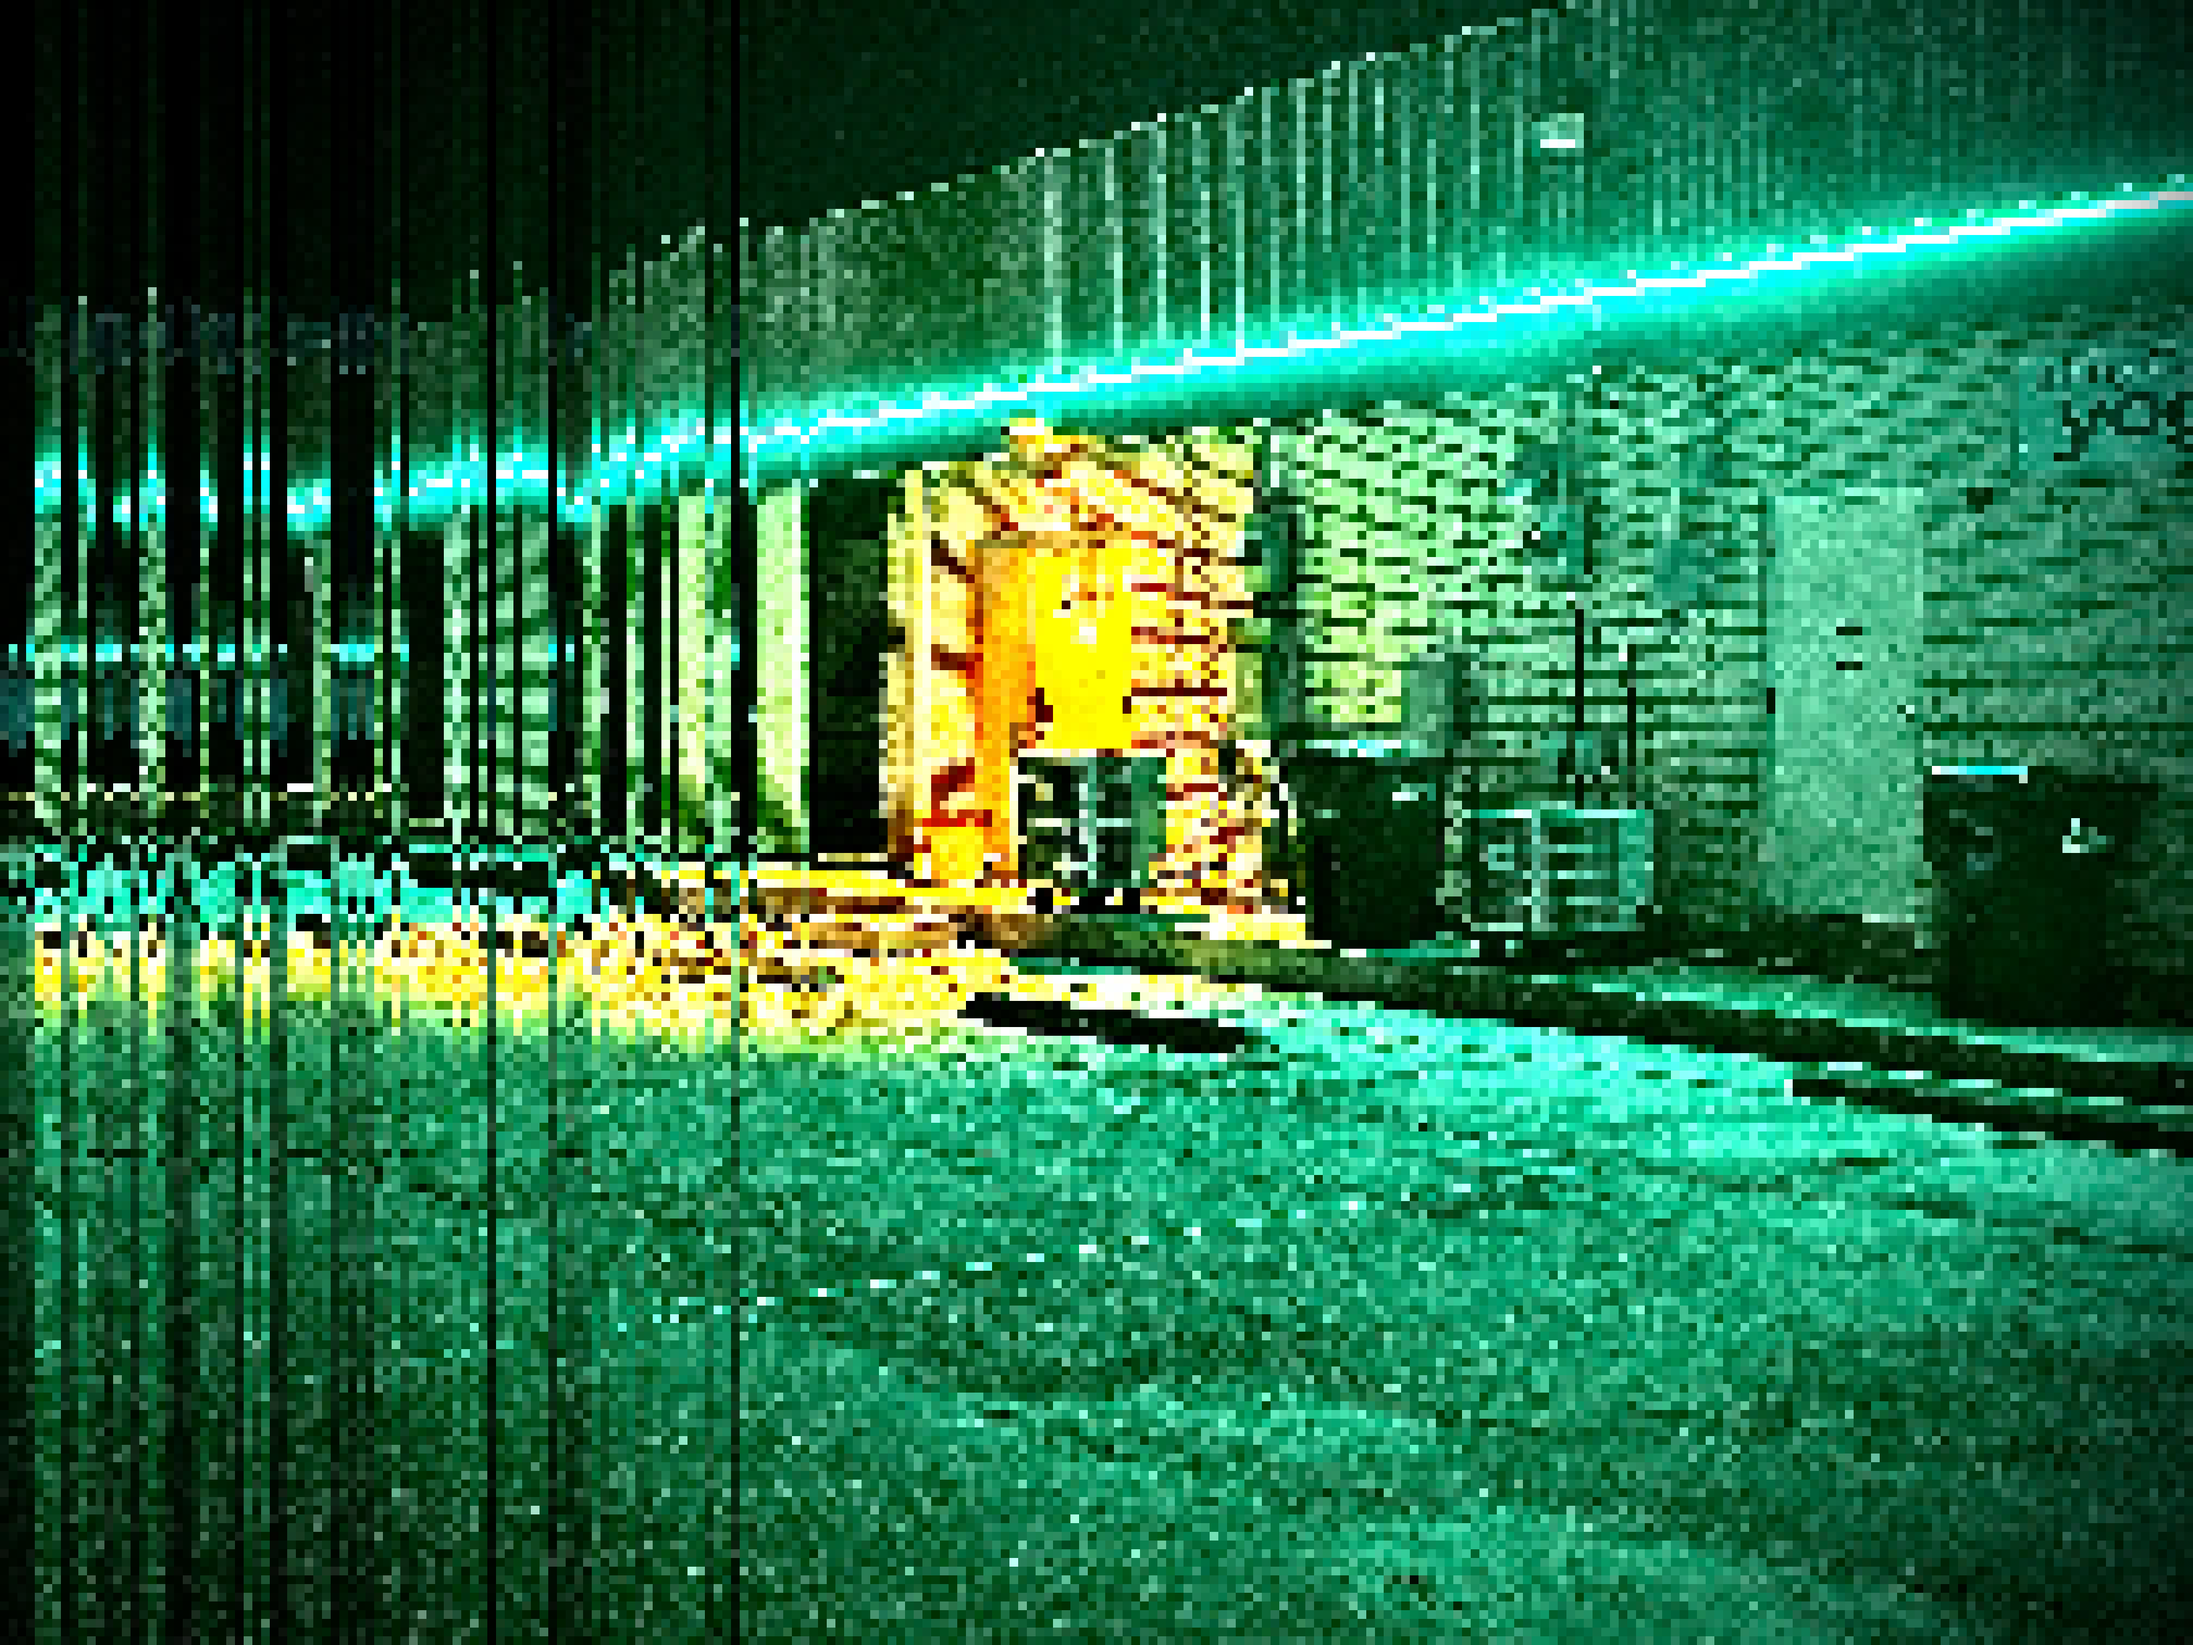
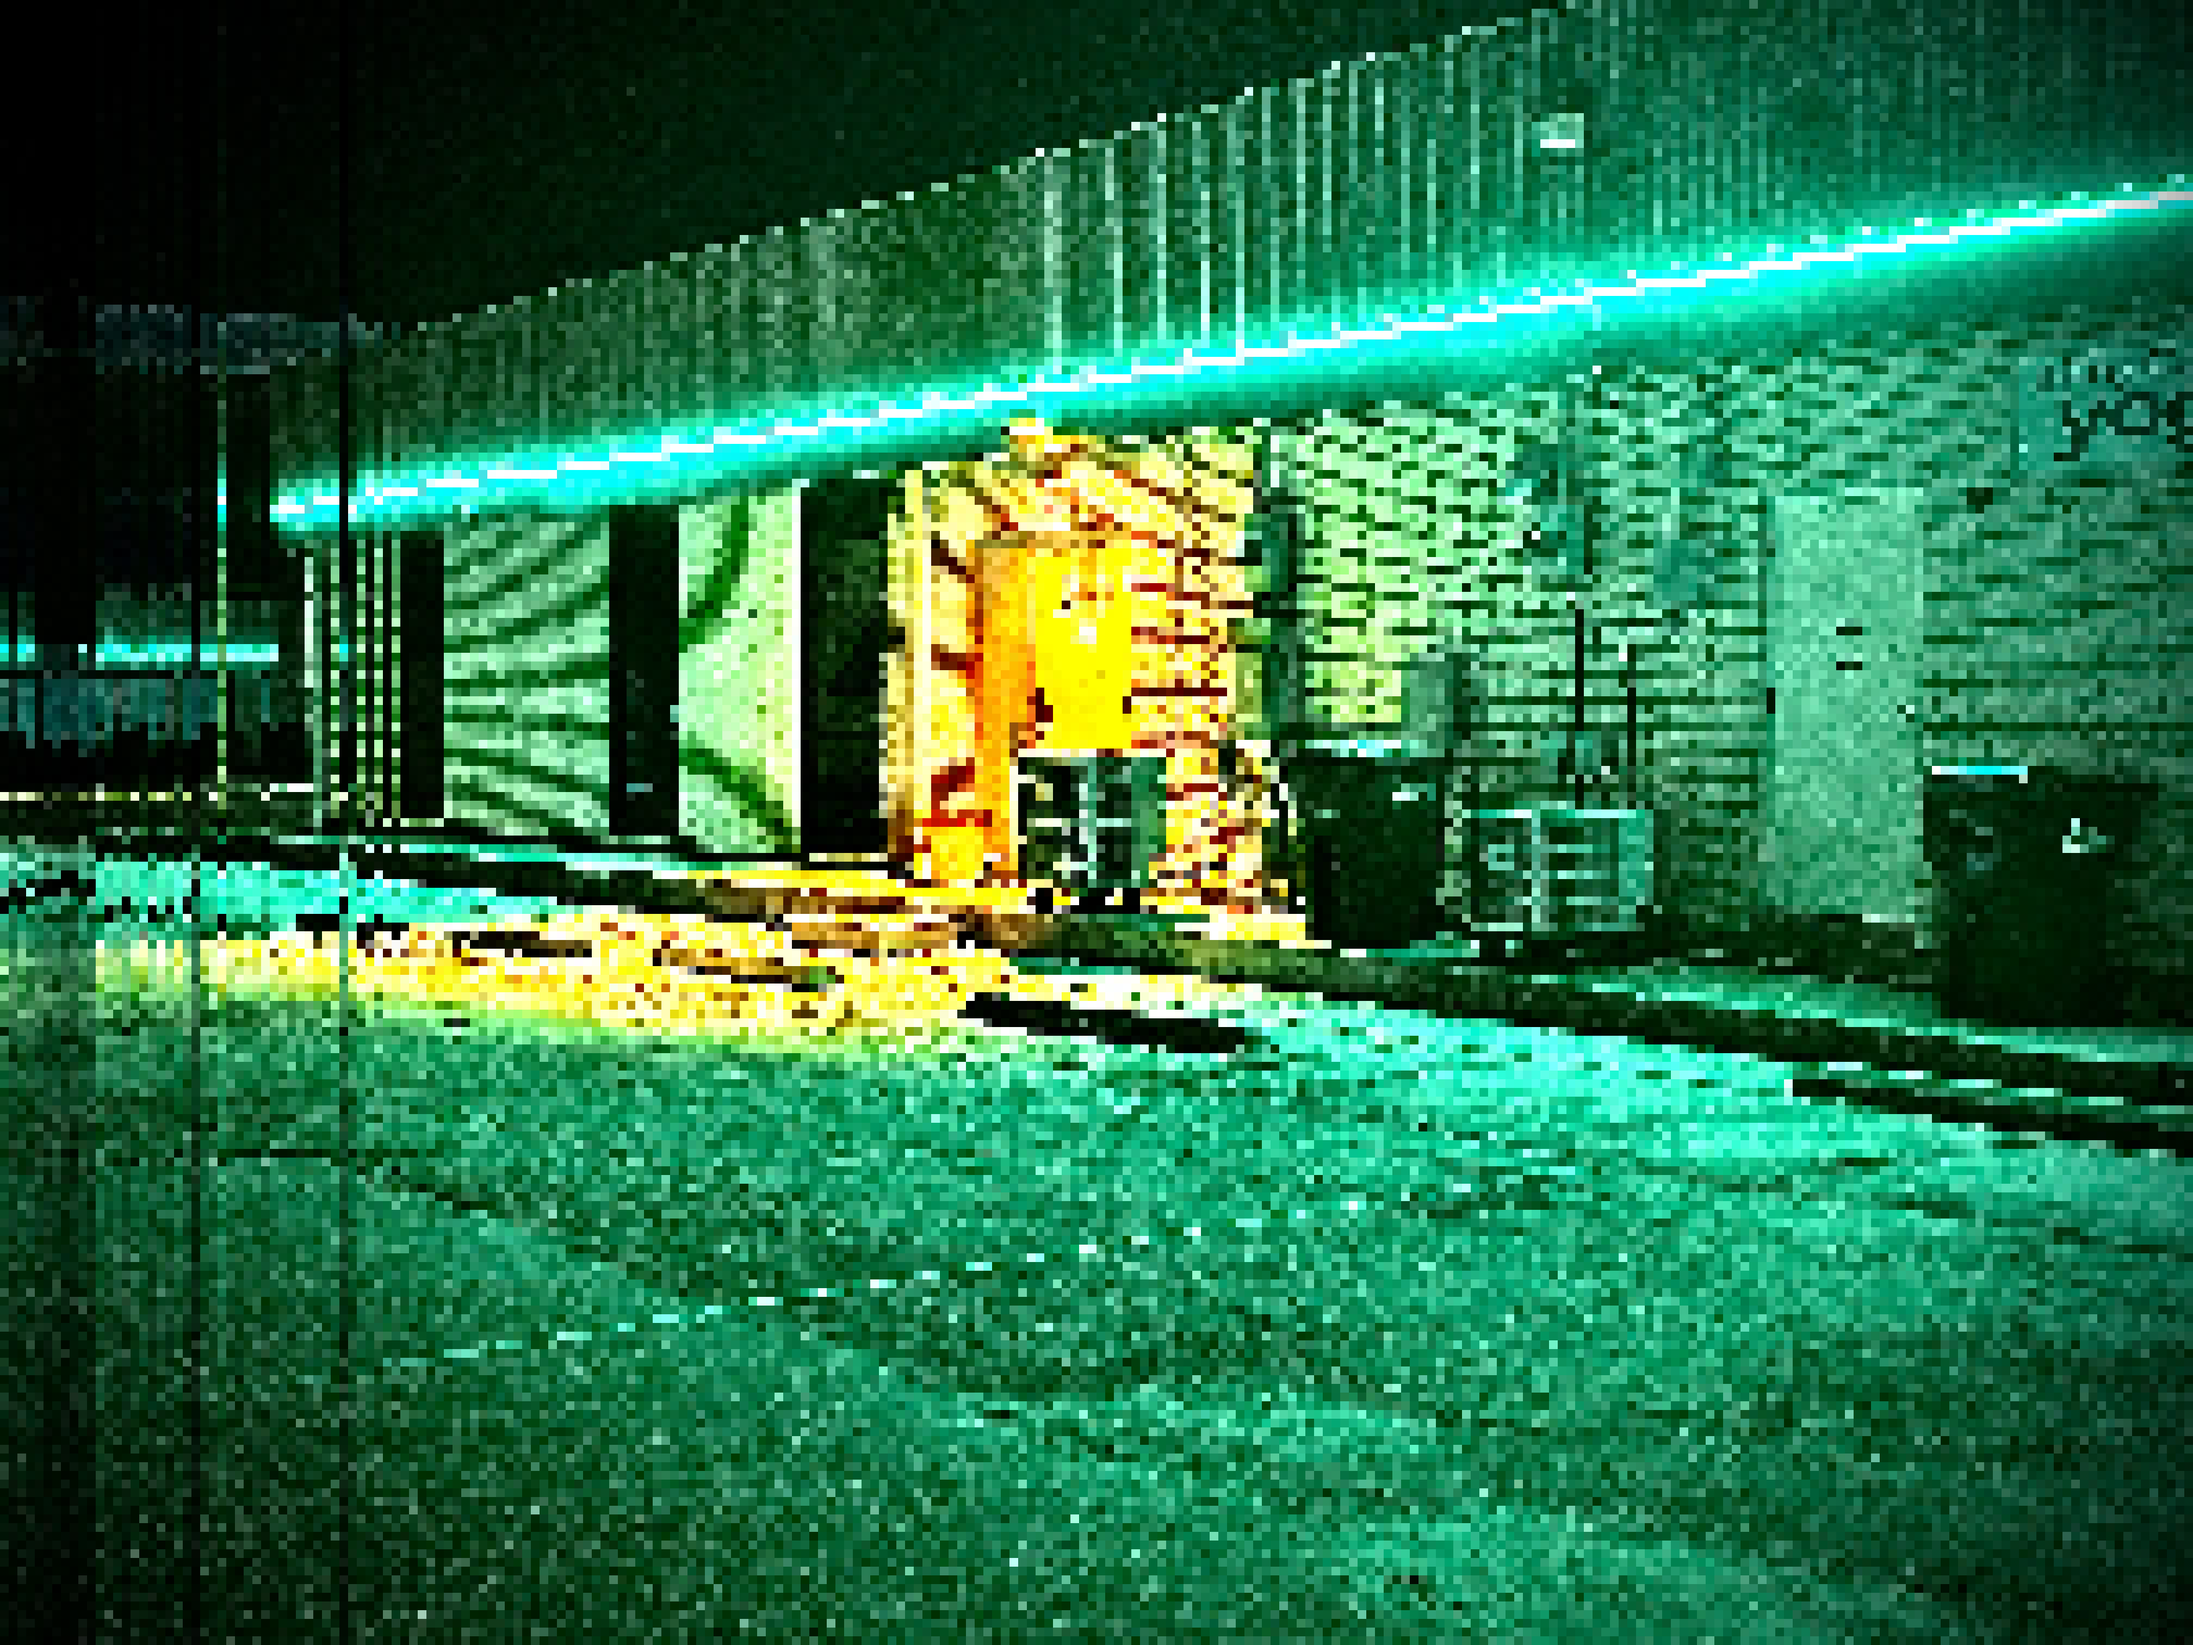
individual-rows branch addition

Changed region(s): [[0.0, 0.0933, 0.375, 1.0]]

diff --git a/image.py b/image.py
@@ -8,6 +8,13 @@ images = []
 locks = [1, 0, 0, 0, 0, 0, 0, 0, 0, 0, 0]
 
 
+def swap_pixels(im, n, x, y):
+    temp = im.getpixel((n, x))
+    im.putpixel((n, x), im.getpixel((n, y)))
+    im.putpixel((n, y), temp)
+    return im
+
+
 def swap_rows(im, row1, row2):
     n = im.size[0] - 1
     for j in range(n):
@@ -26,27 +33,25 @@ def swap_columns(im, col1, col2):
     return im
 
 
-def merge(im, respectToAxis, left, right, progress, total_merges):
+def merge(im, n, respectToAxis, left, right, progress, total_merges):
     """Merge two sorted subarrays into a single sorted array."""
     merged = []
     i = j = 0
 
     while i < len(left) and j < len(right):
-        if left[i] <= right[j]:
+        if left[i][0] <= right[j][0]:
             merged.append(left[i])
             if respectToAxis == 0:
-                swap_rows(im, i, j)
+                swap_pixels(im, n, left[i][1], right[j][1])
             elif respectToAxis == 1:
-                swap_columns(im, i, j)
+                swap_pixels(im, n, left[i][1], right[j][1])
             i += 1
         else:
             merged.append(right[j])
-            '''
             if respectToAxis == 0:
-                swap_rows(im, j, i)
+                swap_pixels(im, n, right[j][1], left[i][1])
             elif respectToAxis == 1:
-                swap_columns(im, j, i)
-            '''
+                swap_pixels(im, n, right[j][1], left[i][1])
             j += 1
 
     merged.extend(left[i:])
@@ -57,12 +62,11 @@ def merge(im, respectToAxis, left, right, progress, total_merges):
     percent_complete = (progress[0] / total_merges) * 100
     print(f"Progress: [{'#' * math.ceil(percent_complete / 5)}{'.' * (20 -
           math.ceil(percent_complete / 5))}] {percent_complete:.2f}% completed", end="\r")
-    save_gif_image(im, percent_complete)
 
     return merged
 
 
-def merge_sort_with_status(im, respectToAxis, arr, progress, total_merges):
+def merge_sort_with_status(im, n, respectToAxis, arr, progress, total_merges):
     """Perform a merge sort with a status bar."""
     if len(arr) <= 1:
         return arr
@@ -72,21 +76,21 @@ def merge_sort_with_status(im, respectToAxis, arr, progress, total_merges):
     right = arr[mid:]
 
     sorted_left = merge_sort_with_status(
-        im, respectToAxis, left, progress, total_merges)
+        im, n, respectToAxis, left, progress, total_merges)
     sorted_right = merge_sort_with_status(
-        im, respectToAxis, right, progress, total_merges)
+        im, n, respectToAxis, right, progress, total_merges)
 
-    return merge(im, respectToAxis, sorted_left, sorted_right, progress, total_merges)
+    return merge(im, n, respectToAxis, sorted_left, sorted_right, progress, total_merges)
 
 
-def calculate_total_merges(n):
+def calculate_total_merges(im, n):
     """Calculate the total number of merge operations required."""
     total = 0
     size = 1
     while size < n:
         total += math.ceil(n / (2 * size))
         size *= 2
-    return total
+    return total * im.size[0]-1
 
 
 '''
@@ -151,6 +155,26 @@ def create_array(im, respectToAxis, respectToColor):
     return arr
 
 
+def create_array2(im, respectToColor):
+    width = im.size[0] - 1
+    height = im.size[1] - 1
+    arr = []
+    for i in range(width):
+        arrtemp = []
+        for j in range(height):
+            if respectToColor == -1:
+                average_color_value = im.getpixel((i, j))[0]
+                average_color_value += im.getpixel((i, j))[1]
+                average_color_value += im.getpixel((i, j))[2]
+                average_color_value /= 3
+                arrtemp.append(average_color_value)
+            else:
+                arrtemp.append(im.getpixel((i, j))[respectToColor])
+        foo = [(value, index) for index, value in enumerate(arrtemp)]
+        arr.append(foo)
+    return arr
+
+
 def cal_avg(arr):
     avg = 0
     for i in range(len(arr)):
@@ -181,44 +205,33 @@ def save_gif_image(im, percent_complete):
 def main(filePath, respectToAxis, respectToColor):
     with Image.open(filePath) as im:
         # ------------BEGIN STATS----------------
-        arr = create_array(im, respectToAxis, respectToColor)
-        avg = cal_avg(arr)
-        print("AVERAGE: ", avg)
+        arr = create_array2(im, respectToColor)
+
+        # avg = cal_avg(arr)
+        # print("AVERAGE: ", avg)
 
         # ------------SORT----------------
         print("STARTING SORT...")
         progress = [0]
-        total_steps = calculate_total_merges(len(arr))
-        merge_sort_with_status(im, respectToAxis, arr,
-                               progress, total_steps)
+        total_steps = calculate_total_merges(im, len(arr[0]))
+
+        n = 0
+        for x in arr:
+            merge_sort_with_status(im, n, respectToAxis, x,
+                                   progress, total_steps)
+            n += 1
 
         # ------------AFTER STATS----------------
-        after_arr = create_array(im, respectToAxis, respectToColor)
-        after_avg = cal_avg(after_arr)
-        print("\nAFTER AVERAGE: ", after_avg)
+        # after_arr = create_array(im, respectToAxis, respectToColor)
+        # after_avg = cal_avg(after_arr)
+        # print("\nAFTER AVERAGE: ", after_avg)
 
         # ------------SAVE----------------
-        im.save("images/oi.png")
-        im = pixelate(im)
-        im.save("gif_images/10.png")
-        im1 = Image.open("gif_images/1.png")
-        im2 = Image.open("gif_images/2.png")
-        im3 = Image.open("gif_images/3.png")
-        im4 = Image.open("gif_images/4.png")
-        im5 = Image.open("gif_images/5.png")
-        im6 = Image.open("gif_images/6.png")
-        im7 = Image.open("gif_images/7.png")
-        im8 = Image.open("gif_images/8.png")
-        im9 = Image.open("gif_images/9.png")
-        im10 = Image.open("gif_images/10.png")
-        images = []
-        images.extend([im1, im2, im3, im4, im5, im6, im7, im8, im9, im10])
-        print(images)
-        imageio.mimsave("images/gifs/oig.gif", images, duration=0.5)
         print("IMAGE CREATED oi.png")
+        im.save("oi.png")
         file = "sounds/note.mp3"
         os.system("afplay " + file)
 
 
 if __name__ == "__main__":
-    main("images/originals/yogo_original.png", 1, -1)
+    main("images/originals/corridor_bluered.png", 0, -1)
